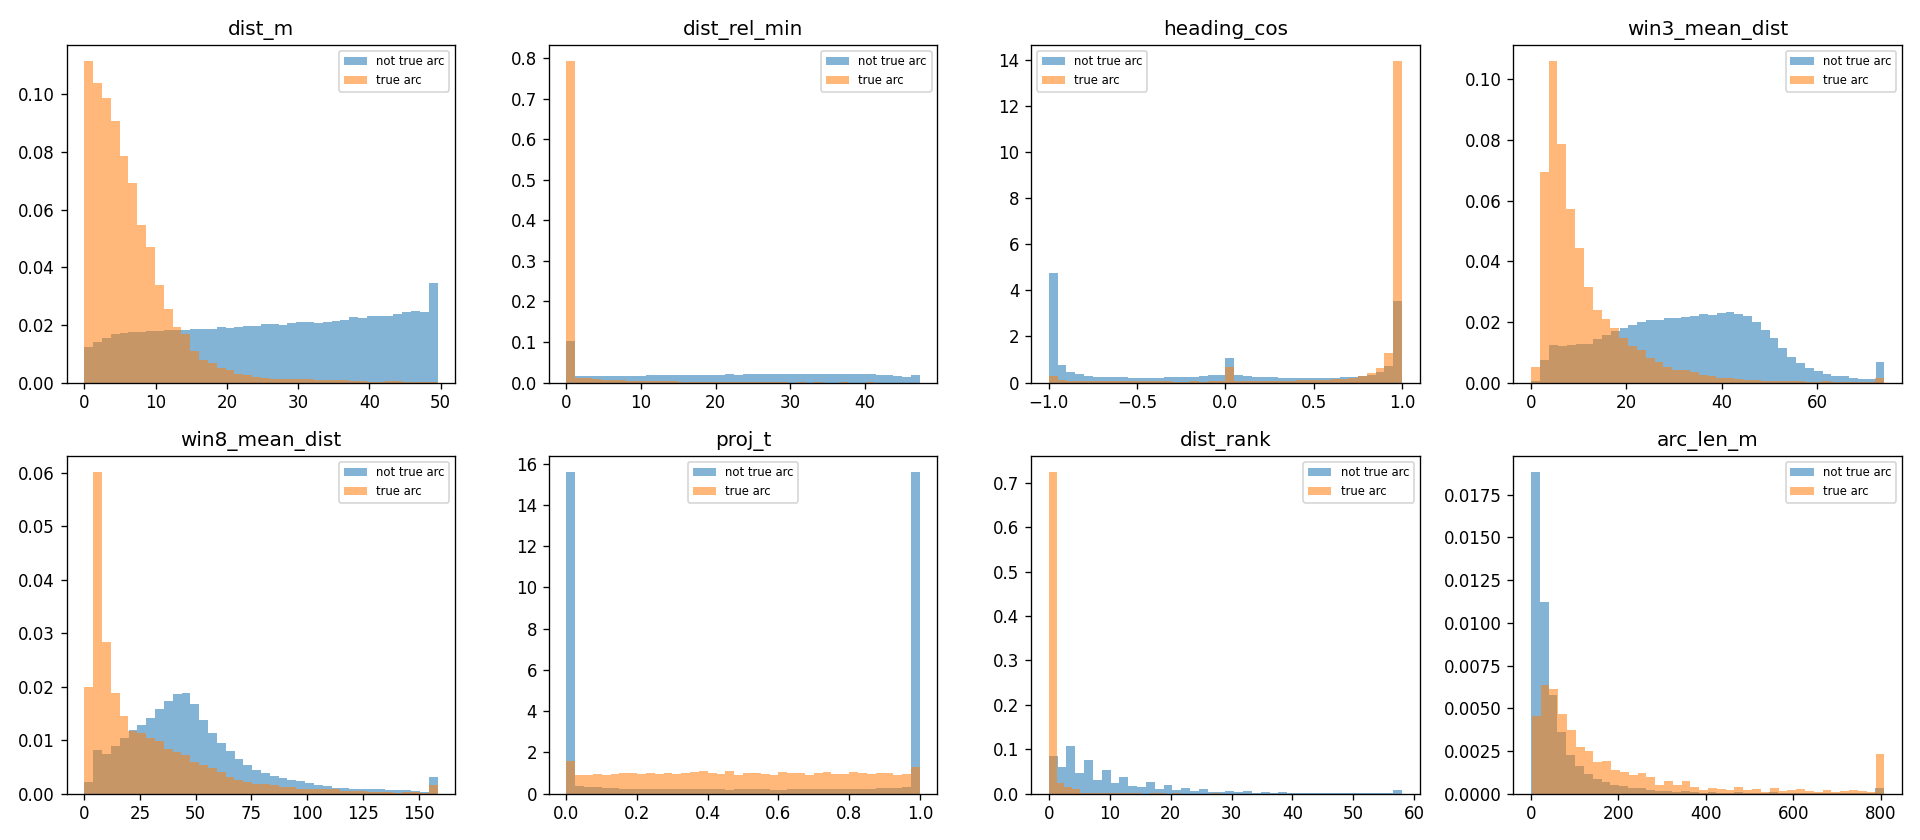
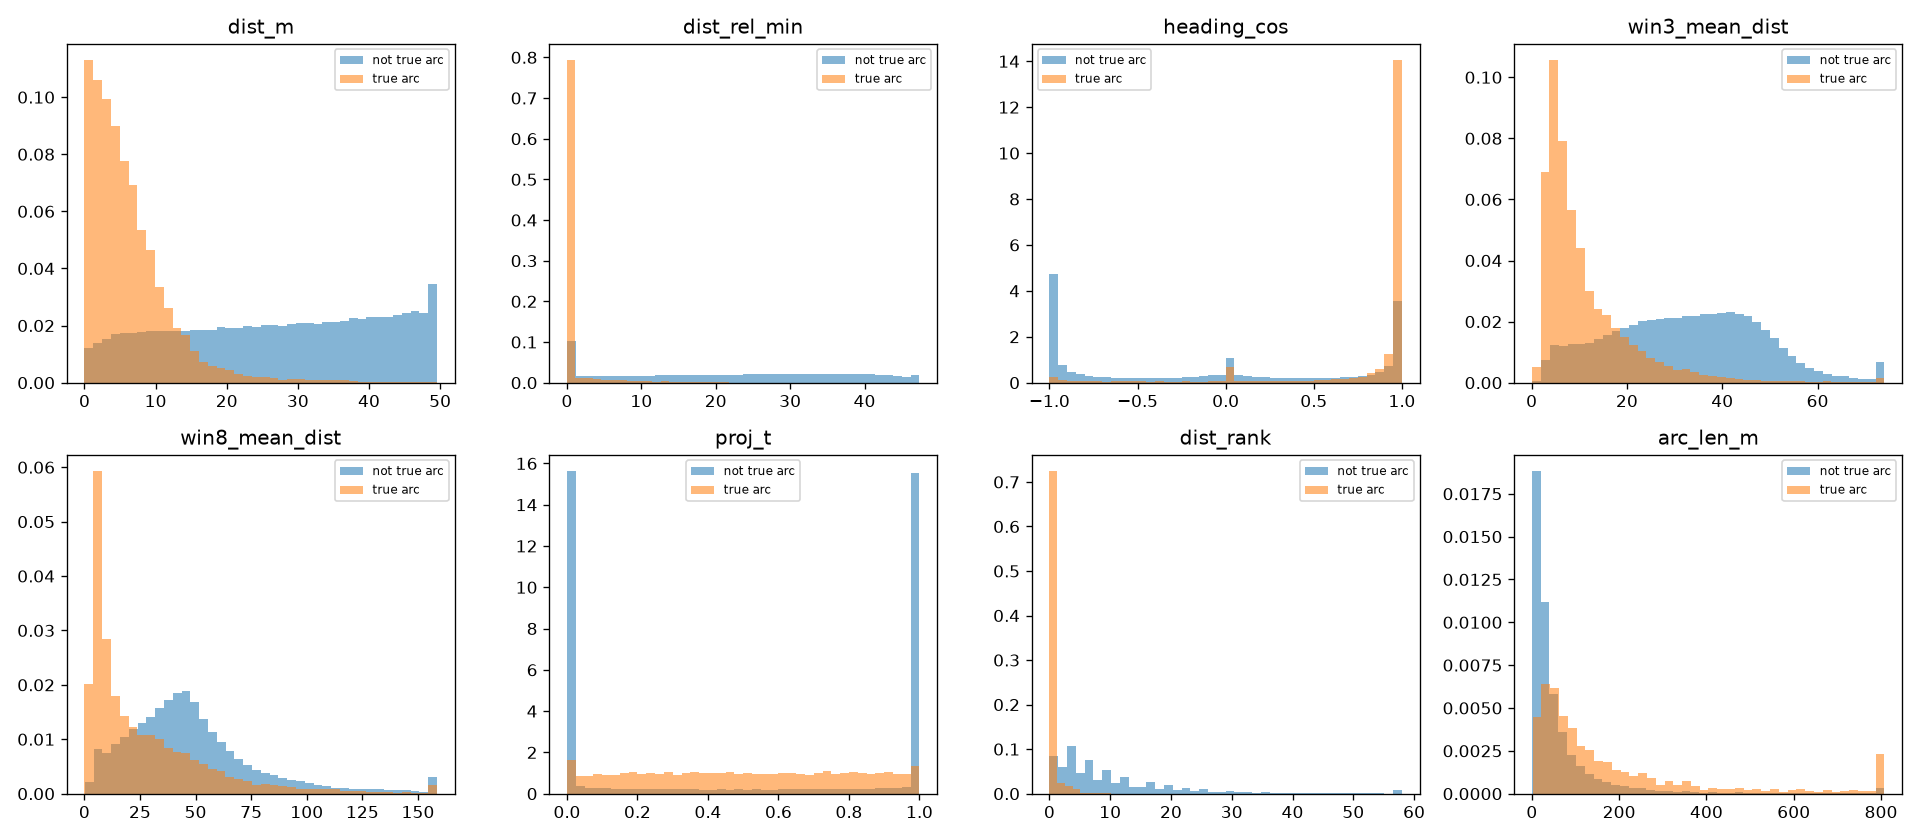
Add ML classifier and HMM map matching implementation

diff --git a/src/eval/route_metrics.py b/src/eval/route_metrics.py
@@ -1,0 +1,131 @@
+import numpy as np
+from collections import Counter
+
+
+def route_continuity(network, pred_arcs):
+    """
+    Measure how well consecutive predicted road segments connect.
+
+    A = starting node of each road.
+    B = ending node of each road.
+
+    Returns:
+        continuity: Fraction of connected transitions.
+        breaks: Number of disconnected transitions.
+    """
+
+    # Convert predictions into a NumPy array
+    pred_arcs = np.asarray(pred_arcs, dtype=int).ravel()
+
+    # Get starting and ending nodes
+    A = np.asarray(network.A)
+    B = np.asarray(network.B)
+
+    # Remove consecutive repeated arc IDs
+    collapsed = []
+
+    for arc in pred_arcs:
+        if not collapsed or arc != collapsed[-1]:
+            collapsed.append(arc)
+
+    # Initialize counters
+    connected = 0
+    breaks = 0
+    total = 0
+
+    previous_arc = None
+
+    for arc in collapsed:
+
+        # Treat -1 as a gap
+        if arc == -1:
+            previous_arc = None
+            continue
+
+        # Check whether arc ID is valid
+        if arc < 0 or arc >= len(A):
+            previous_arc = None
+            continue
+
+        # Compare consecutive roads
+        if previous_arc is not None:
+
+            total += 1
+
+            if B[previous_arc] == A[arc]:
+                connected += 1
+            else:
+                breaks += 1
+
+        previous_arc = arc
+
+    # Calculate continuity
+    continuity = connected / total if total > 0 else 1.0
+
+    return continuity, breaks
+
+
+def sequence_metrics(network, pred_arcs, reference_route):
+    """
+    Calculate length-weighted precision, recall and F1-score.
+
+    Repeated arc traversals are counted separately.
+    Invalid predicted arc IDs are excluded.
+    """
+
+    # Convert routes into lists
+    predicted = np.asarray(pred_arcs, dtype=int).ravel().tolist()
+    reference = np.asarray(reference_route, dtype=int).ravel().tolist()
+
+    # Get road lengths
+    lengths = np.asarray(network.length, dtype=float)
+
+    # Count occurrences of each valid predicted road
+    pred_counts = Counter(
+        arc for arc in predicted if 0 <= arc < len(lengths)
+    )
+
+    # Count occurrences of each valid reference road
+    ref_counts = Counter(
+        arc for arc in reference if 0 <= arc < len(lengths)
+    )
+
+    # Calculate total predicted road length
+    predicted_length = sum(
+        count * lengths[arc]
+        for arc, count in pred_counts.items()
+    )
+
+    # Calculate total reference road length
+    reference_length = sum(
+        count * lengths[arc]
+        for arc, count in ref_counts.items()
+    )
+
+    # Find correctly matched road traversals
+    common = pred_counts & ref_counts
+
+    correct_length = sum(
+        count * lengths[arc]
+        for arc, count in common.items()
+    )
+
+    # Calculate precision
+    precision = (
+        correct_length / predicted_length
+        if predicted_length > 0 else 0.0
+    )
+
+    # Calculate recall
+    recall = (
+        correct_length / reference_length
+        if reference_length > 0 else 0.0
+    )
+
+    # Calculate F1-score
+    f1 = (
+        2 * precision * recall / (precision + recall)
+        if precision + recall > 0 else 0.0
+    )
+
+    return precision, recall, f1

diff --git a/src/models/classifier.py b/src/models/classifier.py
@@ -1,0 +1,87 @@
+
+import pandas as pd
+import numpy as np
+import joblib
+
+from pathlib import Path
+from sklearn.ensemble import HistGradientBoostingClassifier
+from sklearn.metrics import (
+    accuracy_score,
+    precision_score,
+    recall_score,
+    f1_score,
+    classification_report,
+    confusion_matrix,
+    roc_auc_score
+)
+
+from src.features.columns import FEATURE_COLS
+
+# Load datasets
+train = pd.read_parquet("data/features/features_train.parquet")
+test = pd.read_parquet("data/features/features_student_test.parquet")
+
+# Remove unlabelled rows
+train = train[train["label"] != -1].copy()
+test = test[test["label"] != -1].copy()
+
+X_train = train[FEATURE_COLS].replace([np.inf, -np.inf], np.nan)
+y_train = train["label"].astype(int)
+
+X_test = test[FEATURE_COLS].replace([np.inf, -np.inf], np.nan)
+y_test = test["label"].astype(int)
+
+# Handle class imbalance
+counts = y_train.value_counts()
+weights = {
+    cls: len(y_train) / (2 * count)
+    for cls, count in counts.items()
+}
+sample_weights = y_train.map(weights)
+
+# Build classifier
+model = HistGradientBoostingClassifier(
+    max_iter=150,
+    learning_rate=0.1,
+    max_leaf_nodes=31,
+    l2_regularization=1.0,
+    early_stopping=True,
+    random_state=42
+)
+
+# Train
+print("Training classifier...")
+model.fit(X_train, y_train, sample_weight=sample_weights)
+
+# Predictions
+predictions = model.predict(X_test)
+probabilities = model.predict_proba(X_test)[:, 1]
+
+# Evaluation
+print("\n===== CLASSIFIER RESULTS =====")
+
+print("Accuracy:", accuracy_score(y_test, predictions))
+print("Precision:", precision_score(y_test, predictions, zero_division=0))
+print("Recall:", recall_score(y_test, predictions, zero_division=0))
+print("F1 Score:", f1_score(y_test, predictions, zero_division=0))
+print("ROC AUC:", roc_auc_score(y_test, probabilities))
+
+print("\nClassification Report:")
+print(classification_report(y_test, predictions))
+
+print("\nConfusion Matrix:")
+print(confusion_matrix(y_test, predictions))
+
+# Save model
+Path("artifacts").mkdir(exist_ok=True)
+
+joblib.dump(
+    {
+        "model": model,
+        "feature_cols": FEATURE_COLS
+    },
+    "artifacts/classifier.joblib"
+)
+
+print("\nClassifier saved successfully!")
+

diff --git a/src/models/hmm.py b/src/models/hmm.py
@@ -1,0 +1,73 @@
+"""Hidden Markov Model decoding for GPS-to-road map matching."""
+
+import numpy as np
+
+
+def viterbi_decode(emission_probs, transition_probs):
+    """
+    Decode the most likely sequence of road candidates.
+
+    emission_probs: (time_steps, candidates) probabilities
+    transition_probs: (time_steps - 1, candidates, candidates)
+    Returns: best candidate index at each time step.
+    """
+    emissions = np.asarray(emission_probs, dtype=float)
+    transitions = np.asarray(transition_probs, dtype=float)
+
+    if emissions.ndim != 2:
+        raise ValueError("emission_probs must be a 2D array")
+
+    steps, states = emissions.shape
+
+    if steps == 0 or states == 0:
+        return np.array([], dtype=int)
+
+    if transitions.shape != (max(steps - 1, 0), states, states):
+        raise ValueError("Invalid transition_probs shape")
+
+    eps = 1e-12
+    log_emission = np.log(np.clip(emissions, eps, 1.0))
+    log_transition = np.log(np.clip(transitions, eps, 1.0))
+
+    scores = np.zeros((steps, states))
+    backpointers = np.zeros((steps, states), dtype=int)
+
+    scores[0] = log_emission[0]
+
+    for t in range(1, steps):
+        candidates = (
+            scores[t - 1][:, None]
+            + log_transition[t - 1]
+        )
+
+        backpointers[t] = np.argmax(candidates, axis=0)
+
+        scores[t] = (
+            np.max(candidates, axis=0)
+            + log_emission[t]
+        )
+
+    path = np.zeros(steps, dtype=int)
+    path[-1] = np.argmax(scores[-1])
+
+    for t in range(steps - 2, -1, -1):
+        path[t] = backpointers[t + 1, path[t + 1]]
+
+    return path
+
+
+def match_candidates(emission_probs, candidate_arc_ids, transition_probs):
+    """
+    Return the most likely road arc ID for every GPS observation.
+    """
+    candidate_arc_ids = np.asarray(candidate_arc_ids)
+
+    if candidate_arc_ids.shape != np.asarray(emission_probs).shape:
+        raise ValueError("Candidate IDs and emissions must have equal shapes")
+
+    path = viterbi_decode(emission_probs, transition_probs)
+
+    if len(path) == 0:
+        return np.array([], dtype=int)
+
+    return candidate_arc_ids[np.arange(len(path)), path]
